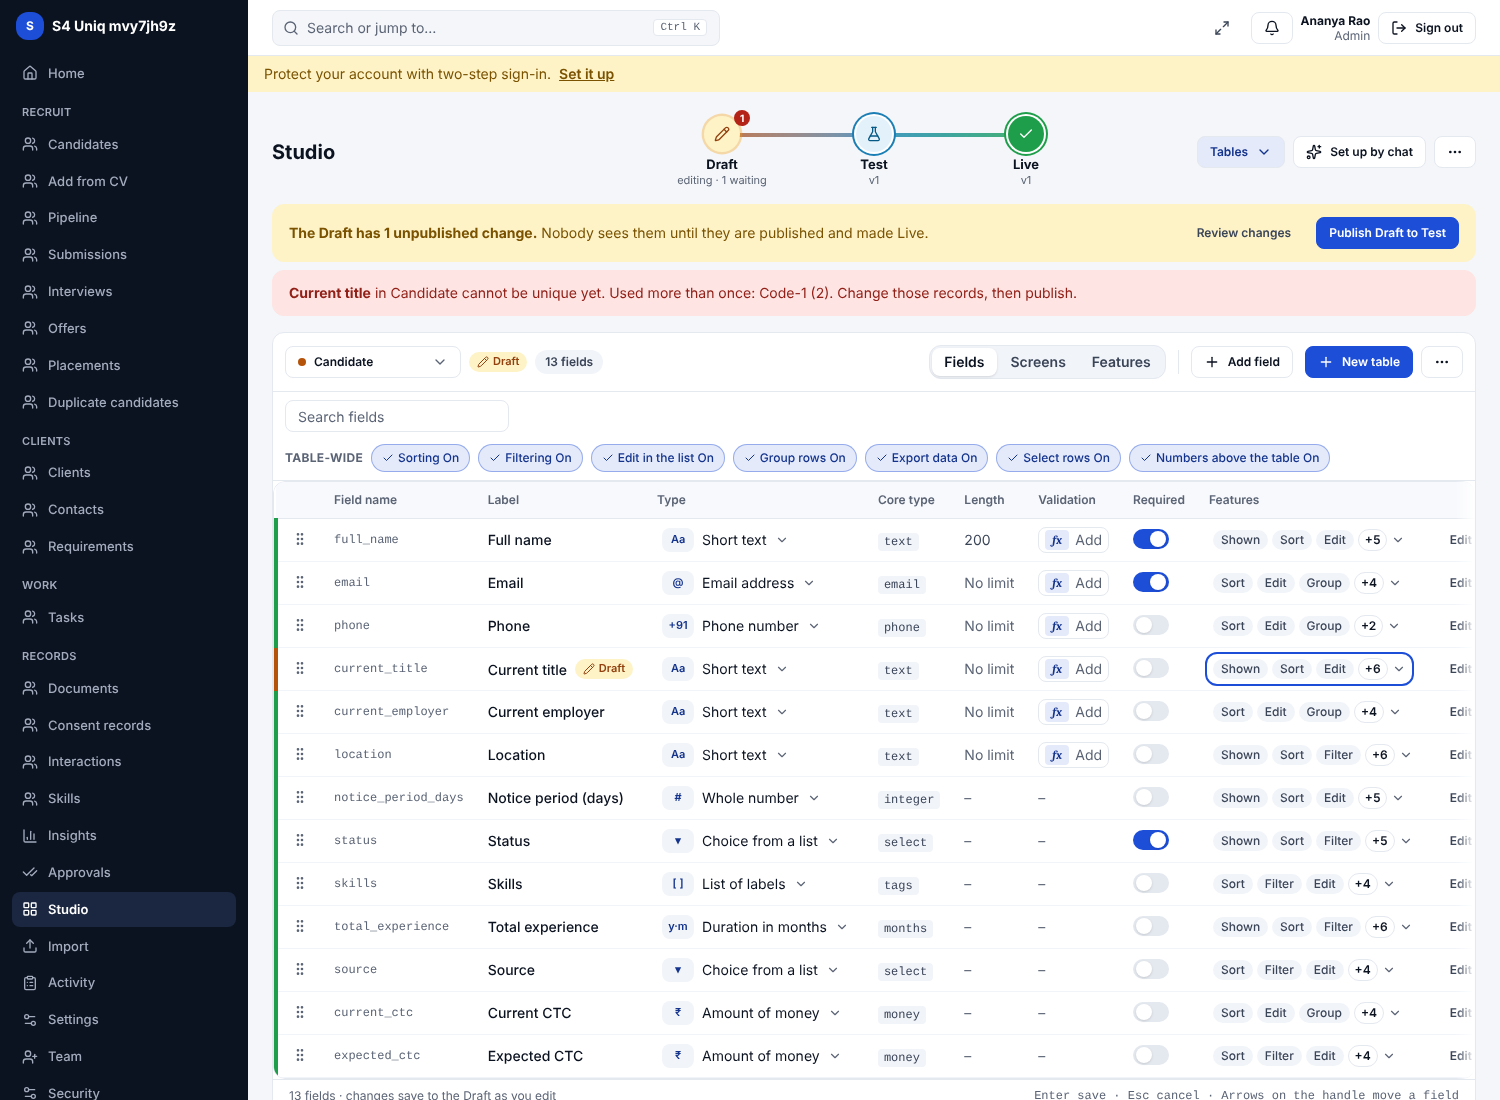
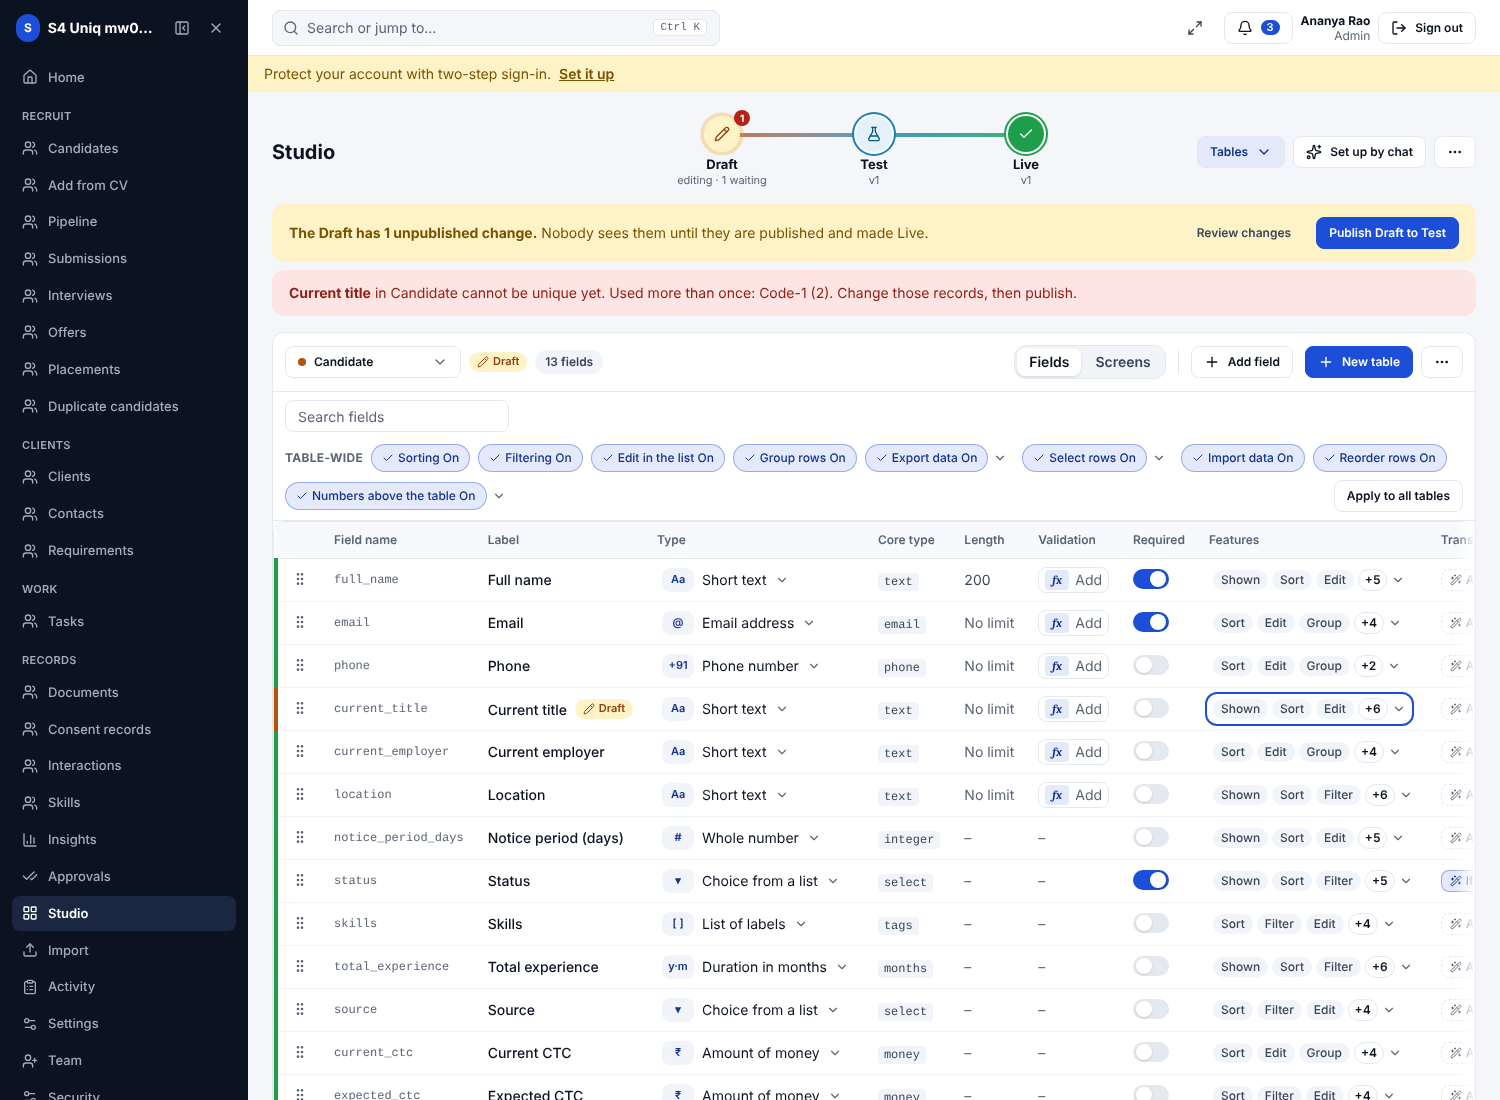
Table-wide bar: switches flip at once; fix tests (work in progress, rerun pending)
Claude-Session: https://claude.ai/code/session_01WKgCPB21QZrQNwipExUmFF

diff --git a/apps/web/src/features/studio/useTableFeatures.ts b/apps/web/src/features/studio/useTableFeatures.ts
@@ -1,5 +1,5 @@
 import { useMutation, useQueryClient } from '@tanstack/react-query'
-import { useEffect, useRef } from 'react'
+import { useEffect, useRef, useState } from 'react'
 import { ApiError } from '@/api/client'
 import { studio } from '@/api/endpoints'
 import type { StudioTable } from '@/api/types'
@@ -16,6 +16,8 @@ export function useTableFeatures(table: StudioTable) {
   const saved = featuresOf(table)
   const latest = useRef<TableFeatures>(saved)
   const json = JSON.stringify(saved)
+  // What the person just chose, shown at once while it saves; dropped when the saved copy arrives or a save fails.
+  const [shown, setShown] = useState<{ base: string; value: TableFeatures } | null>(null)
   useEffect(() => {
     latest.current = JSON.parse(json) as TableFeatures
   }, [json])
@@ -28,11 +30,14 @@ export function useTableFeatures(table: StudioTable) {
     onError: (e) => {
       const first = e instanceof ApiError ? e.errors[0] : undefined
       toast({ title: 'Could not save', description: first ? first.message : (e as Error).message, tone: 'bad' })
+      latest.current = JSON.parse(json) as TableFeatures
+      setShown(null)
     },
   })
   const patch = (change: Partial<TableFeatures>, onFail?: () => void) => {
     latest.current = { ...latest.current, ...change }
+    setShown({ base: json, value: latest.current })
     save.mutate(latest.current, { onError: onFail })
   }
-  return { features: saved, patch, saving: save.isPending }
+  return { features: shown && shown.base === json ? shown.value : saved, patch, saving: save.isPending }
 }

diff --git a/apps/web/e2e/r7.spec.ts b/apps/web/e2e/r7.spec.ts
@@ -80,8 +80,9 @@ test('Every change in the bar saves at once, and flipping something off and on a
   await page.goto('/studio?tab=data&table=candidate')
   const panel = page.getByTestId('features-panel')
   const read = () => page.evaluate(async () => {
-    const r = await fetch('/v1/studio/tables/candidate', { headers: { Authorization: `Bearer ${sessionStorage.getItem('tableui.token')}` } })
-    return JSON.stringify(((await r.json()) as { features?: unknown }).features ?? null)
+    const r = await fetch('/v1/studio/tables', { headers: { Authorization: `Bearer ${sessionStorage.getItem('tableui.token')}` } })
+    const t = ((await r.json()) as { key: string; features?: Record<string, unknown> | null }[]).find((x) => x.key === 'candidate')
+    return JSON.stringify(t?.features ?? null)
   })
   const start = await read()
 

diff --git a/apps/web/e2e/s4-features.spec.ts b/apps/web/e2e/s4-features.spec.ts
@@ -20,9 +20,9 @@ test('S4.1 the Features cell: chips, +N, the dropdown with its eleven ticks, key
     await expect(cell(page, 'Full name')).toContainText('Shown')
   })
 
-  await test.step('The table-wide bar is above the grid with seven switches', async () => {
+  await test.step('The table-wide bar is above the grid with nine switches', async () => {
     const bar = page.getByRole('group', { name: 'Table-wide switches for Candidate' })
-    await expect(bar.getByRole('switch')).toHaveCount(7)
+    await expect(bar.getByRole('switch')).toHaveCount(9)
     for (const n of ['Sorting', 'Filtering', 'Edit in the list', 'Group rows', 'Export data', 'Select rows', 'Numbers above the table'])
       await expect(bar.getByRole('switch', { name: new RegExp(`^${n}`) })).toBeChecked()
   })
